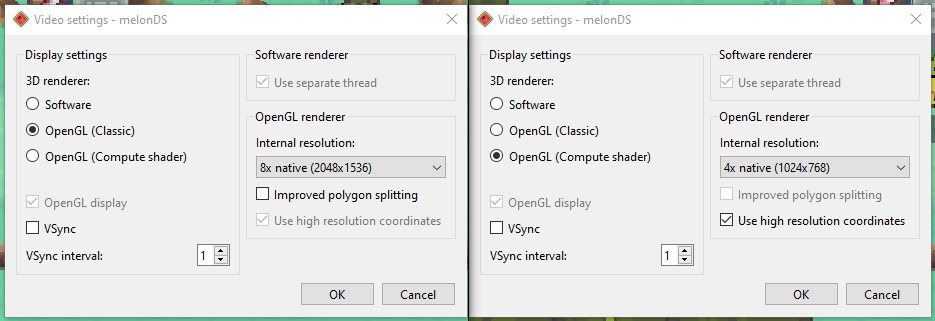
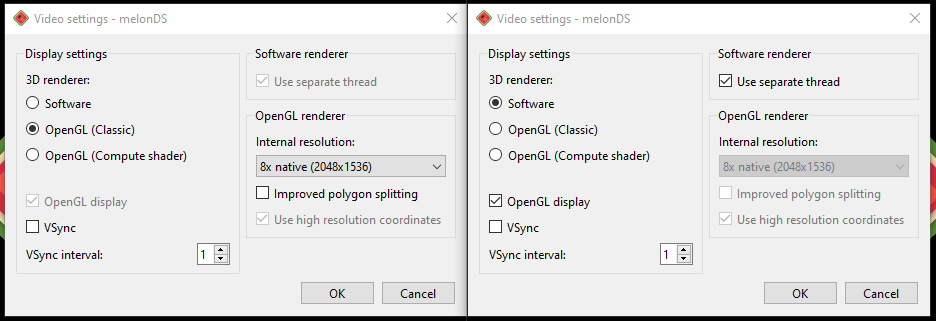
global return to top hook added for all h2-h4 on all pages, global Back button and contents pulldown added to the top of all pages. Minor navigation improvements to Mapping sub-pages (#69)

diff --git a/src/components/PageNavigator.tsx b/src/components/PageNavigator.tsx
@@ -1,0 +1,118 @@
+// src/components/PageNavigator.tsx
+import React, { useEffect, useState } from "react";
+import { useHistory, useLocation } from "@docusaurus/router";
+
+interface Heading {
+  id: string;
+  text: string;
+  level: number;
+}
+
+const PageNavigator: React.FC = () => {
+  const history = useHistory();
+  const location = useLocation();
+  const [headings, setHeadings] = useState<Heading[]>([]);
+  const [selected, setSelected] = useState("");
+
+  // Collect headings without the return-to-top arrows
+  useEffect(() => {
+    const pageHeadings = Array.from(
+      document.querySelectorAll<HTMLHeadingElement>("article h2, article h3, article h4")
+    ).map((h) => ({
+      id: h.id,
+      text: Array.from(h.childNodes)
+        .filter((node) => node.nodeType === Node.TEXT_NODE) // only text nodes
+        .map((node) => node.textContent)
+        .join("")
+        .trim(),
+      level: parseInt(h.tagName.replace("H", ""), 10),
+    }));
+
+    setHeadings(pageHeadings);
+    setSelected(""); // reset on route change
+  }, [location]);
+
+  // Update dropdown selection as user scrolls
+  useEffect(() => {
+    const handleScroll = () => {
+      const scrollPosition = window.scrollY + 100; // offset for header
+      let currentId = "";
+
+      for (const h of headings) {
+        const el = document.getElementById(h.id);
+        if (el && el.offsetTop <= scrollPosition) {
+          currentId = h.id;
+        }
+      }
+
+      setSelected(currentId);
+    };
+
+    window.addEventListener("scroll", handleScroll);
+    handleScroll(); // set initial value
+
+    return () => window.removeEventListener("scroll", handleScroll);
+  }, [headings]);
+
+  const handleChange = (e: React.ChangeEvent<HTMLSelectElement>) => {
+    const targetId = e.target.value;
+    setSelected(targetId);
+    if (targetId) {
+      document.getElementById(targetId)?.scrollIntoView({ behavior: "smooth" });
+    }
+  };
+
+  const handleBack = () => {
+    history.goBack();
+  };
+
+  return (
+    <div
+      style={{
+        display: "flex",
+        justifyContent: "space-between",
+        gap: "1rem",
+        margin: "1rem 0",
+      }}
+    >
+      <button
+        onClick={handleBack}
+        style={{
+          padding: "0.5rem 1rem",
+          borderRadius: "8px",
+          border: "1px solid var(--ifm-color-primary)",
+          background: "var(--ifm-color-primary)",
+          color: "#fff",
+          cursor: "pointer",
+        }}
+      >
+        ← Back
+      </button>
+
+      {headings.length > 0 && (
+        <select
+          value={selected}
+          onChange={handleChange}
+          style={{
+            flex: 1,
+            padding: "0.5rem",
+            borderRadius: "8px",
+            border: "1px solid var(--ifm-color-primary)",
+            cursor: "pointer",
+          }}
+        >
+          <option value="" disabled hidden>
+            Jump to section…
+          </option>
+          {headings.map((h) => (
+            <option key={h.id} value={h.id}>
+              {`${"  ".repeat(h.level - 2)}${h.text}`}
+            </option>
+          ))}
+        </select>
+      )}
+    </div>
+  );
+};
+
+export default PageNavigator;

diff --git a/src/hooks/useReturnToTopHover.ts b/src/hooks/useReturnToTopHover.ts
@@ -1,0 +1,49 @@
+import { useEffect } from "react";
+
+export function useReturnToTopHover() {
+  useEffect(() => {
+    // Remove any previous icons
+    document.querySelectorAll(".return-to-top-hover").forEach((el) => el.remove());
+
+    const headings = Array.from(
+      document.querySelectorAll<HTMLHeadingElement>("article h2, article h3, article h4")
+    );
+
+    headings.forEach((h) => {
+      // Make heading relative so absolute icon aligns correctly
+      h.style.position = "relative";
+
+      const link = document.createElement("a");
+      link.href = "#";
+      link.innerText = "↑";
+      link.className = "return-to-top-hover";
+      link.style.position = "absolute";
+      link.style.top = "50%";
+      link.style.transform = "translateY(-50%)"; // vertical center
+      link.style.fontSize = "0.8em";
+      link.style.textDecoration = "none";
+      link.style.opacity = "0";
+      link.style.transition = "opacity 0.2s";
+      link.style.cursor = "pointer";
+
+      // Adjust right spacing based on heading level
+      const level = parseInt(h.tagName.replace("H", ""), 10);
+      link.style.right = `${1.5 + (level - 2) * 0.5}rem`;
+
+      link.onclick = (e) => {
+        e.preventDefault();
+        window.scrollTo({ top: 0, behavior: "smooth" });
+      };
+
+      h.appendChild(link);
+
+      // Show icon on hover
+      h.addEventListener("mouseenter", () => {
+        link.style.opacity = "1";
+      });
+      h.addEventListener("mouseleave", () => {
+        link.style.opacity = "0";
+      });
+    });
+  }, []);
+}

diff --git a/src/theme/DocItem/index.js b/src/theme/DocItem/index.js
@@ -3,14 +3,26 @@ import {HtmlClassNameProvider} from '@docusaurus/theme-common';
 import {DocProvider} from '@docusaurus/plugin-content-docs/client';
 import DocItemMetadata from '@theme/DocItem/Metadata';
 import DocItemLayout from '@theme/DocItem/Layout';
+import PageNavigator from '@site/src/components/PageNavigator'; // Page navigator with back button & contents dropdown
+import { useReturnToTopHover } from "@site/src/hooks/useReturnToTopHover"; 
+
 export default function DocItem(props) {
   const docHtmlClassName = `docs-doc-id-${props.content.metadata.id}`;
   const MDXComponent = props.content;
+
+  // Inject return-to-top hover icons on headings
+  useReturnToTopHover();
+
+  
   return (
     <DocProvider content={props.content}>
       <HtmlClassNameProvider className={docHtmlClassName}>
         <DocItemMetadata />
         <DocItemLayout>
+          {}
+          <PageNavigator />
+
+          {}
           <MDXComponent />
         </DocItemLayout>
       </HtmlClassNameProvider>

diff --git a/docs/generation-iv/guides/mapping/models.md b/docs/generation-iv/guides/mapping/models.md
@@ -14,6 +14,11 @@ tags:
 This page summarises how the Generation IV Nintendo DS Pokémon games use 3D models in the context of maps (and buildings), and provides guidance on some PDSMS features related to general models/meshes and geomtery.
 
 --- 
+
+[← Return to Mapping Overview page](../mapping)
+
+---
+
 ## Files
 
 3D models in these games use the `.nsbmd` (Nitro System Binary Model Data) file format, details of which can be found [here](https://wiki.vg-resource.com/Nitro_Files#1._NSBMD_Format).  
@@ -153,11 +158,11 @@ This issue is less obvious, but can be seen in many cases. Essentially, the play
 There are three relatively simple ways to mitigate or hide this issue if desired.
 1. When exporting the map to `.obj` in PDSMS, **increase the `Tile Upscaling`** factor from the default value of `1` to something very slightly larger (e.g. `1.01`). This is essentially increasing the sizes of all polygons on the map  very slightly, creating a situation where they are overlapping, preventing the gap from being visible.
 2. Use **'underplating'** to hide the effect, by placing large polygons of a similar (or same) coloured texture underneath the visible maps.
-3. Adjust the **emulator's rendering/video settings**. Some example settings for MelonDS are shown below. With the default MelonDS settings on the left, and some adjusted settings on the right. The exact "interal resolution" setting may vary between computers.
+3. Adjust the **emulator's rendering/video settings**. Some example settings for MelonDS are shown below. With `OpenGL` rendering on the left, and `Software` rendering on the right. The internal resolution setting may be tweaked to procdue better results, but total removal of the gaps under all circumstances requires switching to `Software` rendering.
 
 Option 1 is simple to do and usually does not result in adverse effects, but would require all maps (even vanilla ones) to be adjusted in such a way.  
 Option 2 requires more specific intention, is more difficult on maps with varied colouration and/or differences in height, and adds load to the game by requiring more polygons to be loaded for any given map. Option 2 is, however, used in various places in the vanilla games, such as many caves.  
-Option 3 (or similar per emulator) requires no ROM hacking at all, and impacts on vanilla ROM experience as well. It is *possible* that this will not render all materials correctly at all times, so may not be suitable as a permanent solution, and may have undesirable effects that have not been noted.
+Option 3 (or similar per emulator) requires no ROM hacking at all, and impacts on vanilla ROM experience as well. Using `Software` rendering is mimicing the Nintendo DS hardware's rendering capabiltiies most faithfully.
 
 ![](resources/gaps_in_map_geometry.png)
 ![](resources/melonds_reduce_poly_edge_render_gaps.gif)

diff --git a/docs/generation-iv/guides/mapping/tiles_and_tilesets.md b/docs/generation-iv/guides/mapping/tiles_and_tilesets.md
@@ -15,6 +15,11 @@ tags:
 This page summarises the features and usage of tiles and tilesets in the **Pokémon DS Mapping Studio (PDSMS)** tool, and basic guidance on creation of custom tiles either by extraction from Generation IV or V Nintendo DS Pokémon games, or built from scratch. Both creation methods require the use of other third party tools for 3D modelling, such as Blender.
 
 --- 
+
+[← Return to Mapping Overview page](../mapping)
+
+---
+
 ## PDSMS Features
 PDSMS provides a variety of ways in which **tiles** can be manipulated within the program. The bulk of these features are accessible from the Tilset Editor window, which can be launched from the main horizontal toolbar.  
 

diff --git a/docs/generation-iv/guides/mapping/animations.md b/docs/generation-iv/guides/mapping/animations.md
@@ -19,6 +19,11 @@ As outlined in the summary page [here](/docs/generation-iv/guides/mapping/#textu
  - Texture Patterns
 
 --- 
+
+[← Return to Mapping Overview page](../mapping)
+
+---
+
 ## Geometry Scale Rotate Translate (SRT)
 These are skeletal animations, where parts of 3D models are moving relative to others (a good example from HGSS are the windmills in New Bark Town). They are also used in other non-mapping animations (such as the Lugia/Ho-oh model on the start game screen of SoulSilver and HeartGold respectively).
 
